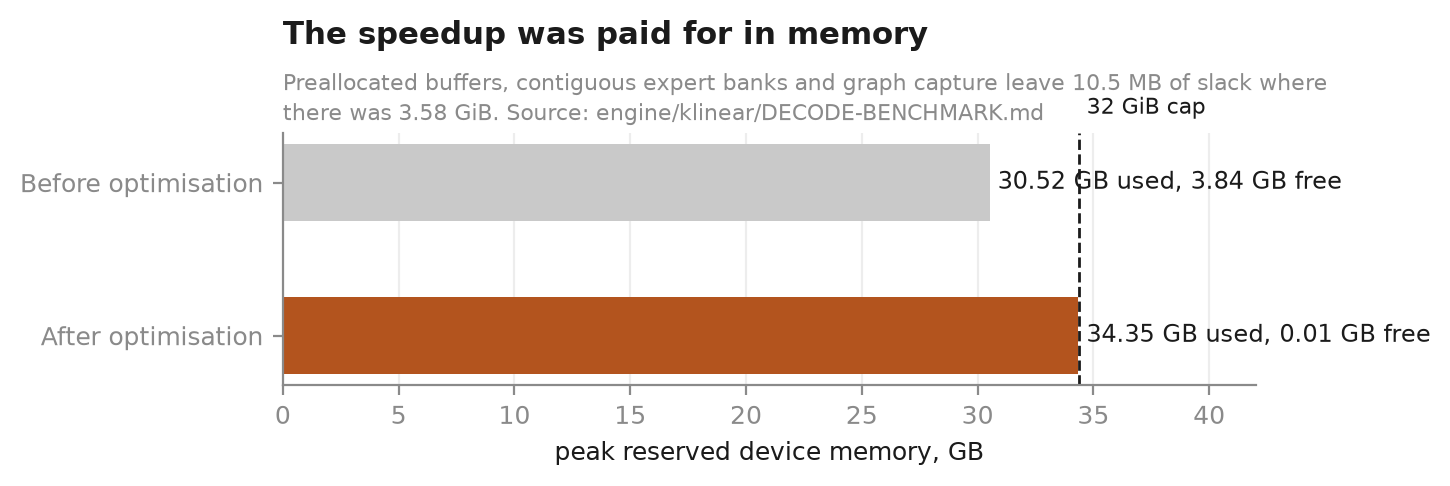
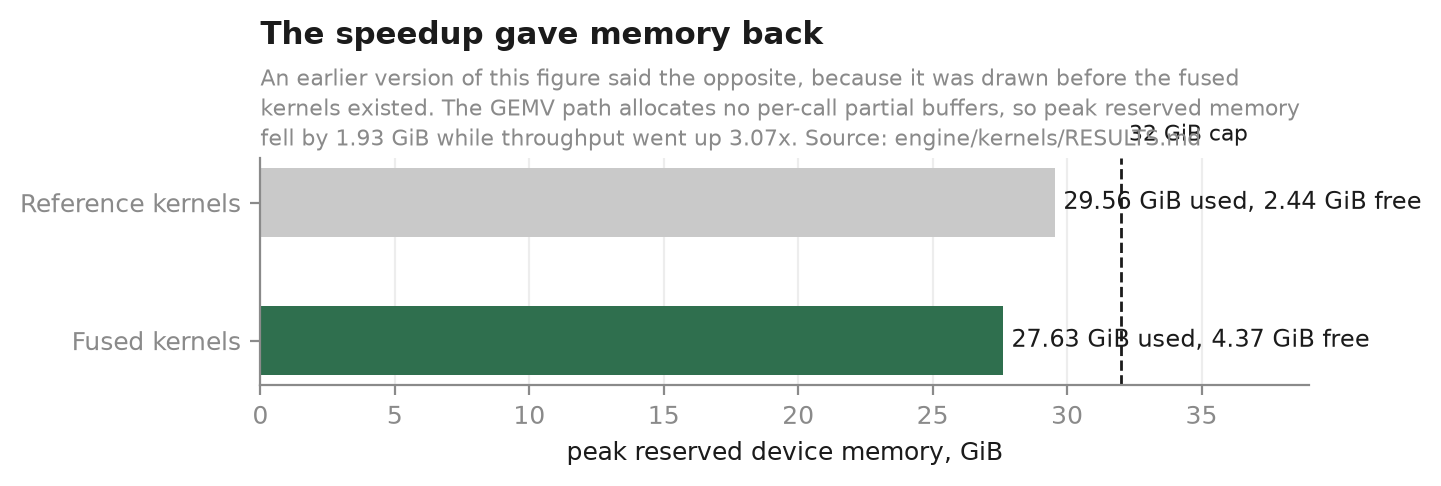
Add technical section and update figures with measured results

diff --git a/scripts/make_figures.py b/scripts/make_figures.py
@@ -70,14 +70,14 @@ def _finish(ax, title: str, subtitle: str, *, width: int = 96) -> None:
 
 
 def decode_stages() -> None:
-    """Throughput after each optimisation, all with identical output."""
+    """Throughput after each fused kernel landed."""
     labels = [
-        "Reference\ngrowing state",
-        "Preallocated\nstate",
-        "Streaming\nend to end",
-        "CUDA graph\nreplay",
+        "Before\nfused kernels",
+        "KDA\nfusions",
+        "+ grouped\nW4A16 GEMV",
+        "+ dense\nW4A16 GEMV",
     ]
-    values = [9.02, 24.07, 32.33, 35.71]
+    values = [35.76, 38.04, 61.88, 109.71]
     colors = [BASE, ACCENT, ACCENT, ACCENT]
 
     fig, ax = plt.subplots(figsize=(7.2, 3.6))
@@ -85,32 +85,124 @@ def decode_stages() -> None:
     for bar, value in zip(bars, values, strict=True):
         ax.text(
             bar.get_x() + bar.get_width() / 2,
-            value + 0.7,
+            value + 2.0,
             f"{value:.2f}",
             ha="center",
             fontsize=9,
             fontweight="bold",
         )
     ax.set_ylabel("tokens per second")
-    ax.set_ylim(0, 42)
+    ax.set_ylim(0, 132)
     ax.grid(axis="y", color="#ededed", linewidth=0.8)
     ax.set_axisbelow(True)
     ax.annotate(
-        "3.96x, byte identical token ids",
-        xy=(3, 35.71),
-        xytext=(1.35, 39.4),
-        fontsize=8.5,
+        "3.07x",
+        xy=(3, 109.71),
+        xytext=(1.5, 122.0),
+        fontsize=9,
         color=ACCENT,
+        fontweight="bold",
         arrowprops={"arrowstyle": "->", "color": ACCENT, "lw": 1.0},
     )
     _finish(
         ax,
-        "Decode throughput after each optimisation",
-        "NVIDIA L40S, INT4 weights, single stream, greedy, 64 tokens, inside a hard 32 GiB cap. "
-        "Source: engine/klinear/DECODE-BENCHMARK.md",
+        "Decode throughput after each fused kernel",
+        "NVIDIA L40S, INT4 weights, single stream, greedy, 17-token prompt, 64 generated "
+        "tokens, inside a hard 32 GiB cap. The kernels are not bit-identical to the "
+        "reference: teacher forced they agree on 96.9 percent of next-token choices at "
+        "0.0036 nats mean KL, about a tenth of what INT4 quantisation itself costs. "
+        "Source: engine/kernels/RESULTS.md",
     )
     fig.tight_layout()
     fig.savefig(OUT / "decode-throughput.png", bbox_inches="tight")
+    plt.close(fig)
+
+
+def kernel_bandwidth() -> None:
+    """The reason the speedup existed: both hot kernels were shaped wrong."""
+    labels = [
+        "grouped W4A16\nw1 and w3",
+        "grouped W4A16\nw2",
+        "dense W4A16\nq/k/v",
+        "dense W4A16\no_proj",
+    ]
+    before = [8.26, 10.19, 9.38, 4.06]
+    after = [51.73, 51.18, 11.13, 9.81]
+
+    x = range(len(labels))
+    width = 0.36
+    fig, ax = plt.subplots(figsize=(7.6, 3.8))
+    first = ax.bar([i - width / 2 for i in x], before, width, label="before", color=BASE)
+    second = ax.bar([i + width / 2 for i in x], after, width, label="after", color=ACCENT)
+    for group in (first, second):
+        for bar in group:
+            ax.text(
+                bar.get_x() + bar.get_width() / 2,
+                bar.get_height() + 1.2,
+                f"{bar.get_height():.1f}%",
+                ha="center",
+                fontsize=8.5,
+            )
+    ax.set_xticks(list(x))
+    ax.set_xticklabels(labels)
+    ax.set_ylabel("percent of L40S peak bandwidth")
+    ax.set_ylim(0, 68)
+    ax.legend(frameon=False, loc="upper right", fontsize=8.5)
+    ax.grid(axis="y", color="#ededed", linewidth=0.8)
+    ax.set_axisbelow(True)
+    _finish(
+        ax,
+        "Both hot kernels were running far below the card",
+        "Each was written as a GEMM and used at decode as a GEMV: tl.dot with a 16-row "
+        "accumulator for a single token, and packed weights indexed with N on the fastest "
+        "axis so every lane pulled its own cache line. The dense kernel remains starved for "
+        "parallelism, which is why it gains less. Peak is 864 GB/s. "
+        "Source: engine/kernels/RESULTS.md",
+    )
+    fig.tight_layout()
+    fig.savefig(OUT / "kernel-bandwidth.png", bbox_inches="tight")
+    plt.close(fig)
+
+
+def decode_time_split() -> None:
+    """Where a decode token went before the kernel work."""
+    labels = [
+        "grouped W4A16",
+        "dense W4A16",
+        "elementwise",
+        "other",
+        "reduction",
+        "index, copy, softmax",
+    ]
+    values = [13.184, 9.132, 3.385, 1.838, 0.766, 0.545]
+    launches = [78, 104, 2236, 360, 300, 186]
+    colors = [WARN, WARN, ACCENT, BASE, BASE, BASE]
+
+    fig, ax = plt.subplots(figsize=(7.6, 3.2))
+    bars = ax.barh(labels, values, color=colors, height=0.62)
+    for bar, value, count in zip(bars, values, launches, strict=True):
+        ax.text(
+            value + 0.25,
+            bar.get_y() + bar.get_height() / 2,
+            f"{value:.2f} ms   {count} launches",
+            va="center",
+            fontsize=8.5,
+        )
+    ax.set_xlim(0, 20)
+    ax.set_xlabel("milliseconds per decoded token")
+    ax.invert_yaxis()
+    ax.grid(axis="x", color="#ededed", linewidth=0.8)
+    ax.set_axisbelow(True)
+    _finish(
+        ax,
+        "Two kernels held 77 percent of decode time",
+        "Measured on an L40S over 28.85 ms of GPU work per token. CUDA graph capture had "
+        "already removed launch overhead, so the 2,236 elementwise launches cost only 3.4 ms "
+        "between them and kernel count was not the bottleneck. "
+        "Source: engine/klinear/DECODE-PROFILE.md",
+    )
+    fig.tight_layout()
+    fig.savefig(OUT / "decode-time-split.png", bbox_inches="tight")
     plt.close(fig)
 
 
@@ -191,29 +283,31 @@ def quantisation_quality() -> None:
 
 
 def memory_headroom() -> None:
-    """The speedup was paid for in memory."""
-    labels = ["Before optimisation", "After optimisation"]
-    peak = [30.515658752, 34.349252608]
-    budget = 34.359738368
+    """The fused kernels gave memory back rather than spending it."""
+    labels = ["Reference kernels", "Fused kernels"]
+    peak = [29.56, 27.63]
+    budget = 32.0
 
     fig, ax = plt.subplots(figsize=(7.2, 2.5))
-    bars = ax.barh(labels, peak, color=[BASE, WARN], height=0.5)
+    bars = ax.barh(labels, peak, color=[BASE, ACCENT], height=0.5)
     for bar, value in zip(bars, peak, strict=True):
         slack = budget - value
-        note = f"{value:.2f} GB used, {slack:.2f} GB free"
-        ax.text(value + 0.35, bar.get_y() + bar.get_height() / 2, note, va="center", fontsize=8.5)
+        note = f"{value:.2f} GiB used, {slack:.2f} GiB free"
+        ax.text(value + 0.3, bar.get_y() + bar.get_height() / 2, note, va="center", fontsize=8.5)
     ax.axvline(budget, color=INK, linestyle="--", linewidth=1.0)
-    ax.text(budget + 0.35, -0.45, "32 GiB cap", fontsize=8)
-    ax.set_xlim(0, 42)
-    ax.set_xlabel("peak reserved device memory, GB")
+    ax.text(budget + 0.3, -0.45, "32 GiB cap", fontsize=8)
+    ax.set_xlim(0, 39)
+    ax.set_xlabel("peak reserved device memory, GiB")
     ax.invert_yaxis()
     ax.grid(axis="x", color="#ededed", linewidth=0.8)
     ax.set_axisbelow(True)
     _finish(
         ax,
-        "The speedup was paid for in memory",
-        "Preallocated buffers, contiguous expert banks and graph capture leave 10.5 MB of slack "
-        "where there was 3.58 GiB. Source: engine/klinear/DECODE-BENCHMARK.md",
+        "The speedup gave memory back",
+        "An earlier version of this figure said the opposite, because it was drawn before the "
+        "fused kernels existed. The GEMV path allocates no per-call partial buffers, so peak "
+        "reserved memory fell by 1.93 GiB while throughput went up 3.07x. "
+        "Source: engine/kernels/RESULTS.md",
     )
     fig.tight_layout()
     fig.savefig(OUT / "memory-headroom.png", bbox_inches="tight")
@@ -222,6 +316,8 @@ def memory_headroom() -> None:
 
 if __name__ == "__main__":
     decode_stages()
+    kernel_bandwidth()
+    decode_time_split()
     weight_bytes()
     quantisation_quality()
     memory_headroom()

diff --git a/README.md b/README.md
@@ -58,6 +58,49 @@ The **109.71 tokens per second** L40S engine result and llama.cpp's reported **r
 
 The INT4 artifact is not equivalent in quality to the BF16 source. [`engine/accuracy/RESULTS.md`](engine/accuracy/RESULTS.md) records the measured difference.
 
+## How the engine got faster
+
+For people who want the technical detail. Everything below is measured on one
+NVIDIA L40S under a hard 32 GiB cap, and every figure names the document it came
+from.
+
+We profiled decode before changing anything. The result was not what we expected.
+CUDA graph capture had already removed launch overhead, so the 2,236 elementwise
+kernel launches per token cost only 3.4 ms between them. Two W4A16 kernels held
+77 percent of the time.
+
+![Where decode time went](docs/figures/decode-time-split.png)
+
+Both of those kernels had been written as matrix-matrix multiplies and were being
+used at decode as matrix-vector multiplies. They called `tl.dot` with a 16-row
+accumulator to multiply a single token, throwing away fifteen sixteenths of the
+work, and they indexed packed weights with the output dimension on the fastest
+axis, so neighbouring threads pulled separate cache lines. Together that left
+them running at 4 to 10 percent of the card's memory bandwidth.
+
+![Kernel bandwidth before and after](docs/figures/kernel-bandwidth.png)
+
+Rewriting them as real GEMVs, with the reduction axis contiguous and a
+single-row accumulator, took the grouped expert kernel from 8.3 to 51.7 percent
+of peak.
+
+![Decode throughput after each fused kernel](docs/figures/decode-throughput.png)
+
+The fused path also allocates no per-call partial buffers, so peak memory fell
+while throughput rose.
+
+![Memory headroom](docs/figures/memory-headroom.png)
+
+Kernels live behind a registry in [`engine/kernels/registry.py`](engine/kernels/registry.py).
+Each operation has one reference implementation and any number of variants, a
+variant is selected with the `KIMI_KERNELS` environment variable, and
+[`engine/kernels/equivalence.py`](engine/kernels/equivalence.py) compares every
+variant against the reference. That is how a kernel gets swapped in without
+guessing whether it changed the model.
+
+Full numbers, including what we built and chose not to ship, are in
+[`engine/kernels/RESULTS.md`](engine/kernels/RESULTS.md).
+
 ## Built by RunInfra
 
 This project is built and maintained by [RunInfra](https://runinfra.ai/).
